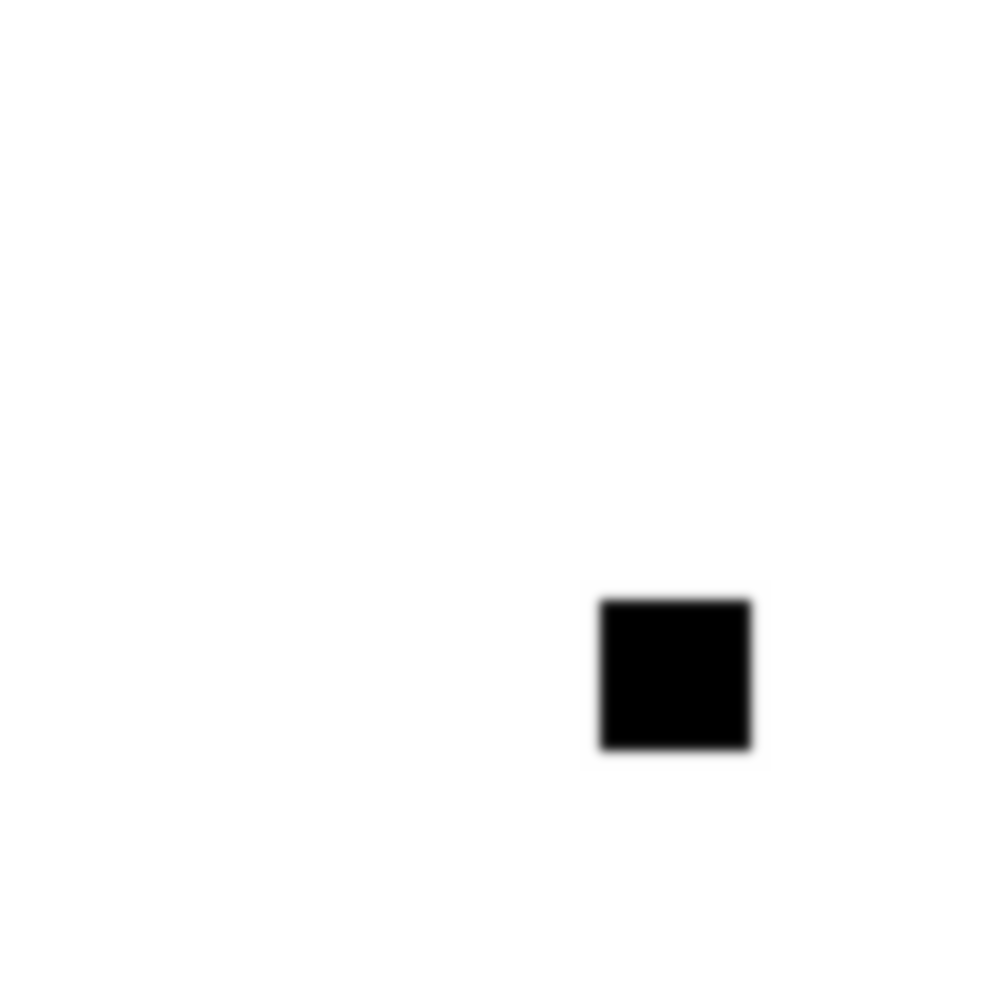
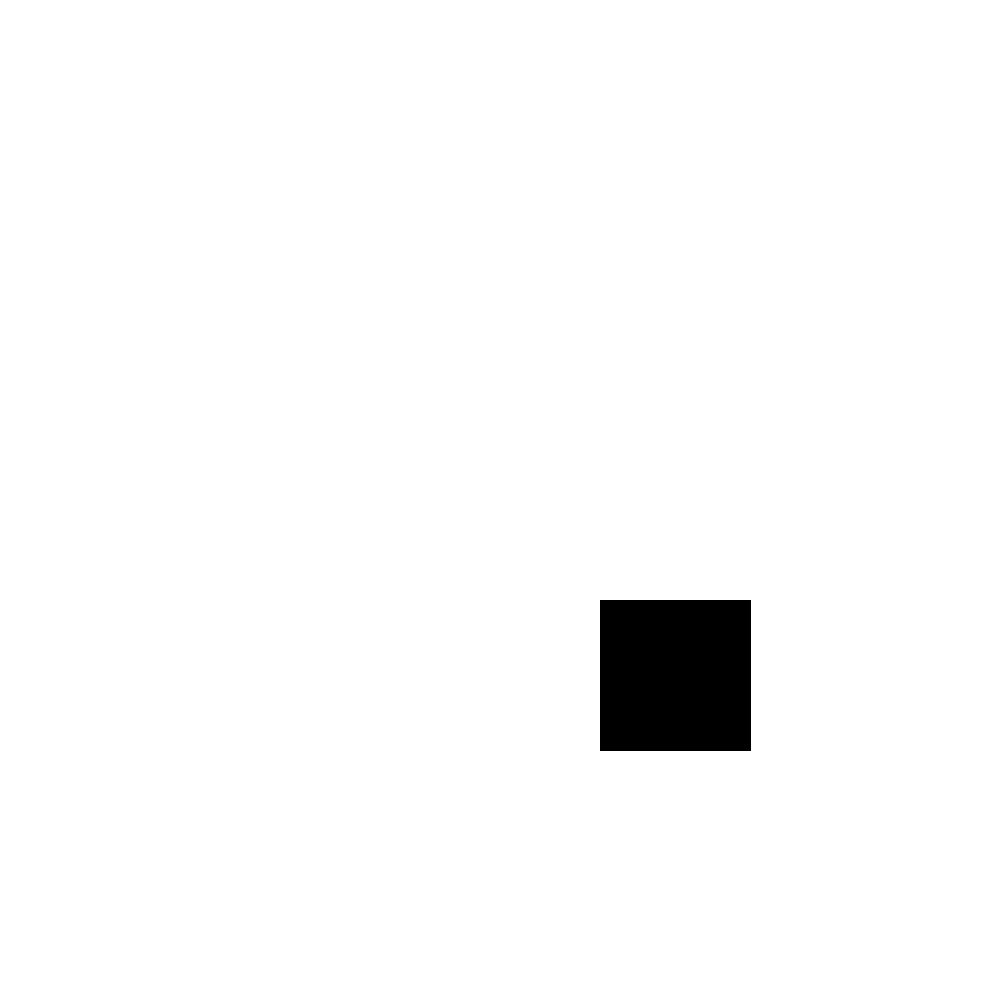
backup before reports

Changed region(s): [[0.589, 0.589, 0.775, 0.775]]

diff --git a/assets/scripts/create_distance_field.py b/assets/scripts/create_distance_field.py
@@ -24,7 +24,7 @@ def create_distance_field(img):
         img = cv2.resize(img, (1000, 1000))
 
     # Convolve with a Gaussian to effect a blur.
-    blur = gaussian_filter(img, sigma=5)
+    blur = gaussian_filter(img, sigma=0.0)
     blur = cv2.normalize(blur, None, 0, 1.0, cv2.NORM_MINMAX, dtype=cv2.CV_32F)
     
     distance_field = blur
